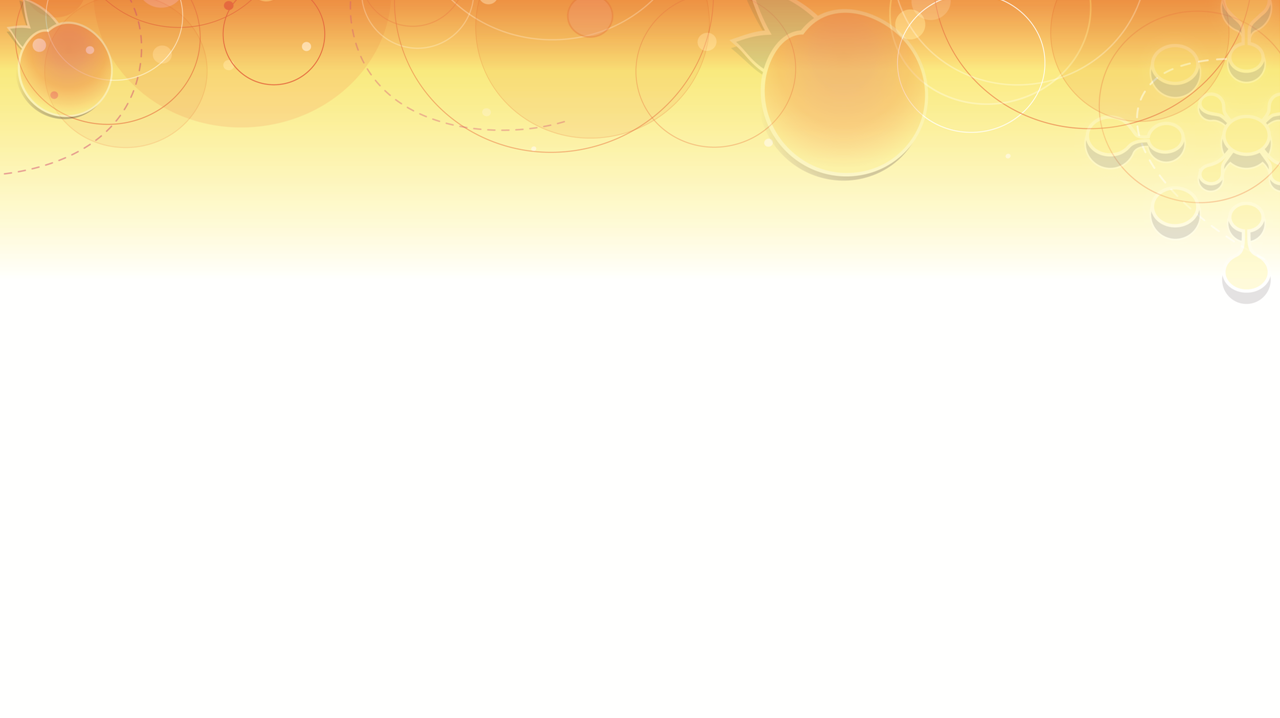
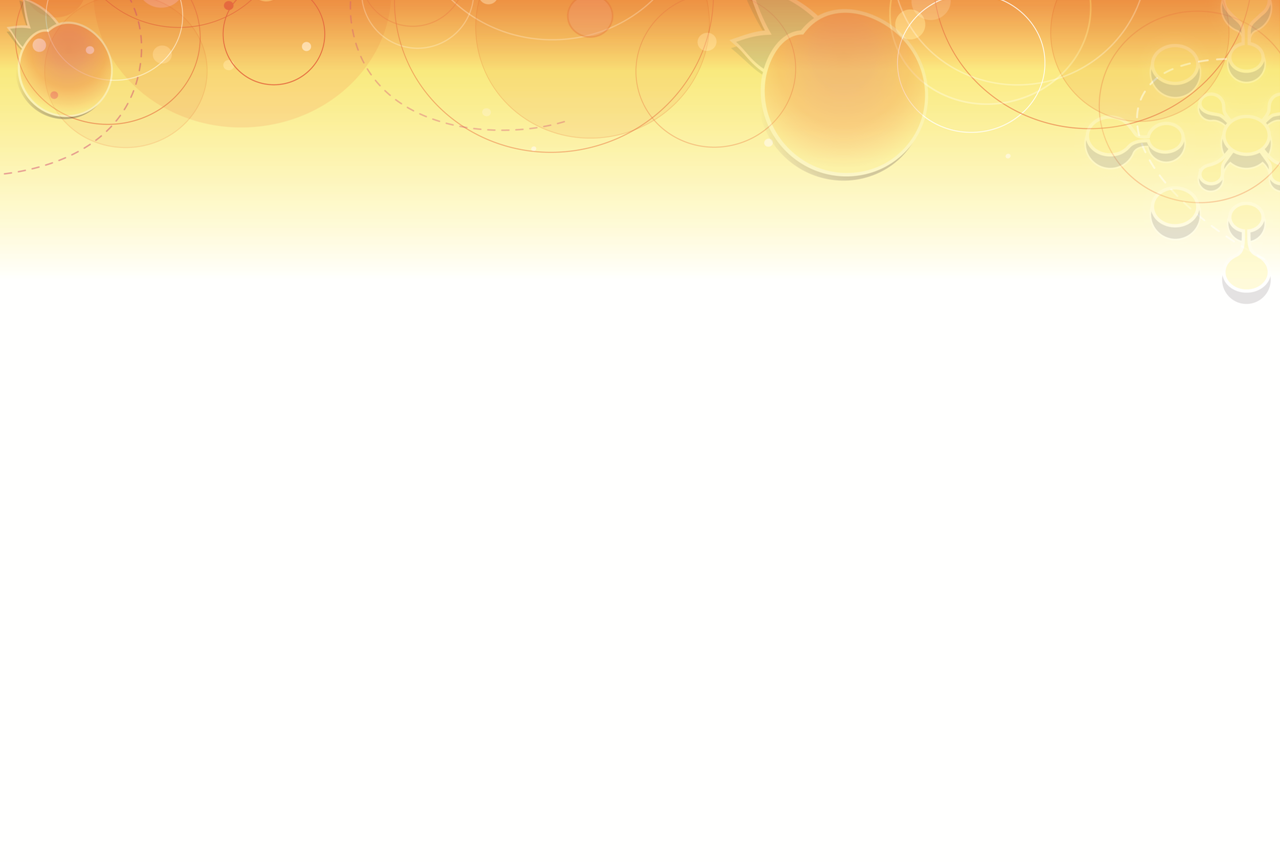
Updated images and CSS

diff --git a/css/theme.css b/css/theme.css
@@ -7,11 +7,11 @@
 body {
   
   /**
-   * Use a repeating background image from the IEEE Vis 2013 PowerPoint template.
+   * Use a background image from the IEEE Vis 2013 PowerPoint template.
    * from http://www.ieeevis.org/year/2013/info/presenter-information/authors
    */
-  background-image:url('vis2013repeat.png');
-  background-repeat:repeat-y;
+  background-image:url('vis2013slide.png');
+  background-attachment:fixed;
 
   font-family: 'OpenSans', serif;
 }
@@ -34,8 +34,8 @@ body {
 /* Position the small logo image at a fixed location. */
 #visLogo {
   position:fixed;
-  right: 0px;
-  bottom: 0px;
+  right: 5px;
+  bottom: 10px;
 }
 
 @font-face {
@@ -66,7 +66,8 @@ body {
 }
 
 .spacer {
-  padding-top: 300px;
+  padding-top: 150px;
+  padding-bottom: 150px;
 }
 
 h1 {
@@ -79,8 +80,8 @@ li {
   font-size: 2em;
   color: #254b51;
   list-style:none; /* Get rid of normal bullet */
-  padding-top:10px;
-  padding-bottom:10px;
+  padding-top:5px;
+  padding-bottom:5px;
 }
 
 /* This styled bullet replaces the normal one */

diff --git a/index.html b/index.html
@@ -25,6 +25,7 @@ Curran Kelleher 10/3/2013
       <p id="subtitle">By Curran Kelleher</p>
       <div id="sections"/>
     </div>
+    <div class="spacer"/>
     <script src="loadSections.js"></script>
   </body>
 </html>
